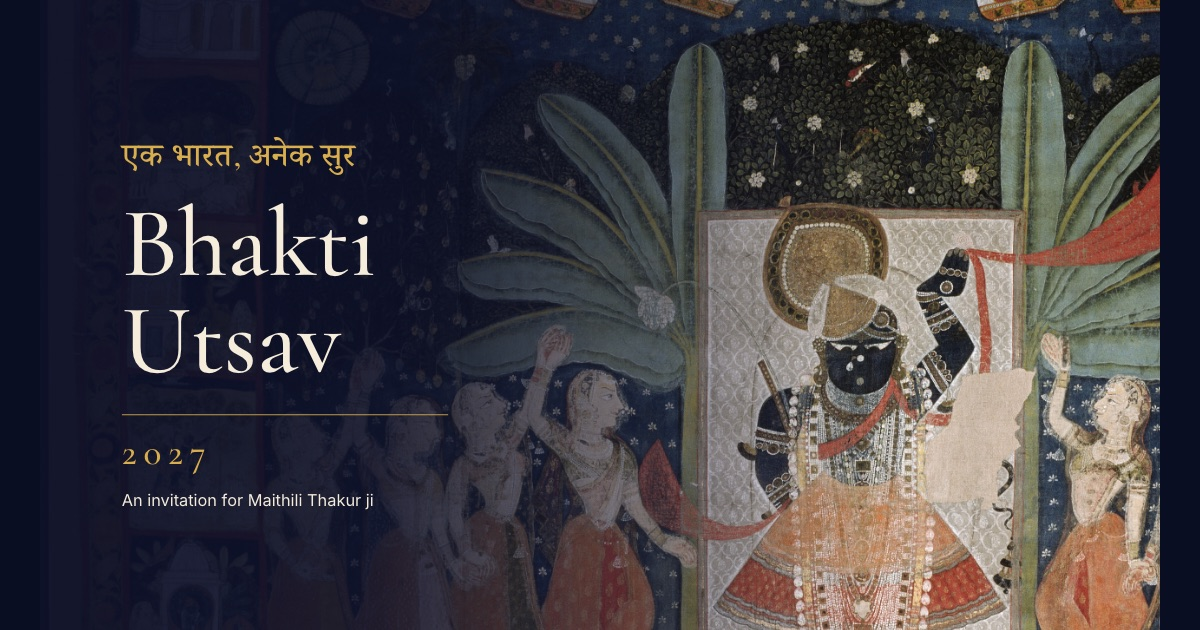
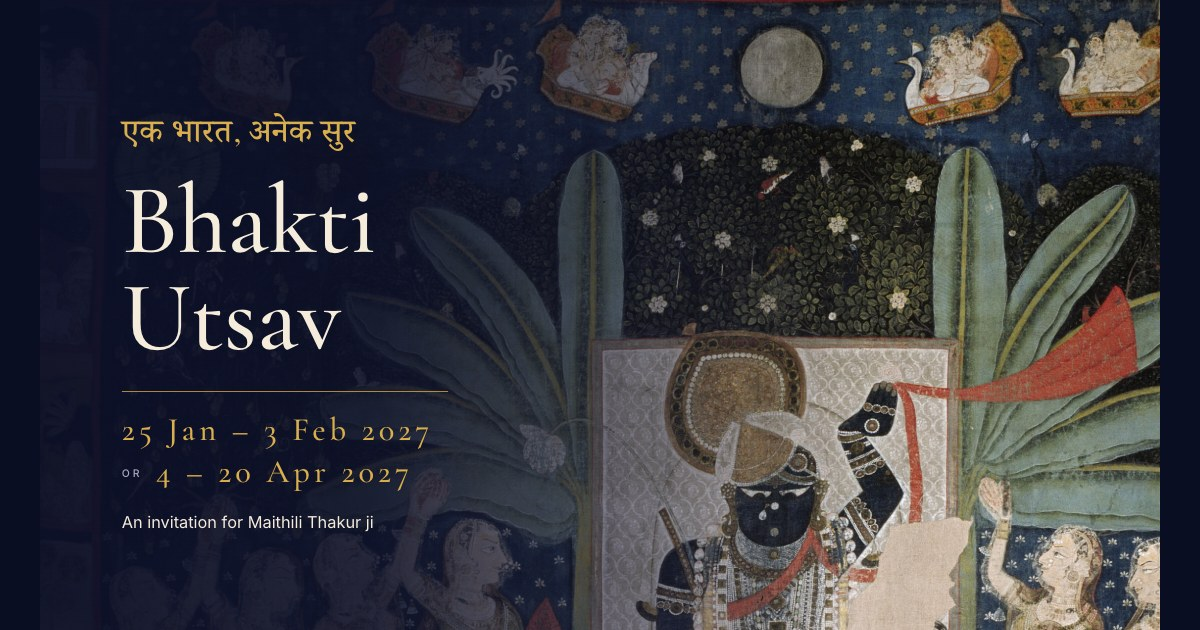
Update deck

diff --git a/index.html b/index.html
@@ -4,14 +4,14 @@
 <meta charset="utf-8">
 <meta name="viewport" content="width=device-width, initial-scale=1">
 <title>Bhakti Utsav 2027</title>
-<meta name="description" content="Ek Bharat, Anek Sur. An invitation for Maithili Thakur ji.">
+<meta name="description" content="Ek Bharat, Anek Sur. 25 Jan – 3 Feb or 4 – 20 Apr 2027. An invitation for Maithili Thakur ji.">
 <meta name="theme-color" content="#0A0E22">
 <meta name="apple-mobile-web-app-capable" content="yes">
 <meta name="mobile-web-app-capable" content="yes">
 <meta name="apple-mobile-web-app-status-bar-style" content="black">
 <meta property="og:type" content="website">
 <meta property="og:title" content="Bhakti Utsav 2027">
-<meta property="og:description" content="Ek Bharat, Anek Sur. An invitation for Maithili Thakur ji.">
+<meta property="og:description" content="Ek Bharat, Anek Sur. 25 Jan – 3 Feb or 4 – 20 Apr 2027. An invitation for Maithili Thakur ji.">
 <meta property="og:url" content="https://saurabh-labofone.github.io/bhakti-utsav-2027/">
 <meta property="og:image" content="https://saurabh-labofone.github.io/bhakti-utsav-2027/assets/share.jpg">
 <meta property="og:image:width" content="1200">
@@ -68,6 +68,7 @@ svg.ln line,svg.ln path{stroke:var(--gold);stroke-width:1.5;fill:none}
 #bars .bar i{display:block;height:100%;background:var(--gold);transform-origin:left center;transform:scaleX(0)}
 
 /* journey */
+.s1-or{display:inline-block;font:500 18px/1 'IN';letter-spacing:.3em;text-transform:uppercase;color:var(--muted);margin-right:22px;vertical-align:.5em}
 .station .dot{position:absolute;width:20px;height:20px;margin:-10px 0 0 -10px;border-radius:50%;background:var(--gold)}
 .station .ring{position:absolute;width:48px;height:48px;margin:-24px 0 0 -24px;border-radius:50%;border:1.5px solid var(--gold)}
 .station.maybe .dot{background:transparent;border:2px dashed var(--gold);box-sizing:border-box;width:26px;height:26px;margin:-13px 0 0 -13px}
@@ -162,6 +163,7 @@ html.idle #playB.ended{opacity:1;pointer-events:auto}
 #rotate .r-in{max-width:320px}
 #rotate .r-kick{font:500 12px/1.4 'IN',system-ui,sans-serif;letter-spacing:.3em;text-transform:uppercase;color:var(--gold)}
 #rotate .r-dev{font:500 20px/1.3 'DEV',serif;color:var(--gold);margin-top:8px}
+#rotate .r-date{font:500 15px/1.55 'IN',system-ui,sans-serif;letter-spacing:.06em;color:var(--ivory);margin-top:10px}
 #rotate svg{display:block;width:132px;height:132px;margin:34px auto 30px;overflow:visible}
 #rotate .r-phone{transform-box:fill-box;transform-origin:center;animation:turn 3.2s cubic-bezier(.65,0,.35,1) infinite}
 #rotate .r-phone rect{fill:rgba(30,38,82,.7);stroke:var(--gold);stroke-width:2}
@@ -184,11 +186,11 @@ html.idle #playB.ended{opacity:1;pointer-events:auto}
 <section class="slide" id="s1">
   <div class="lens full" data-img="raas"><img alt="Pichwai of Shrinathji with the gopis under a night sky, Nathdwara, 19th century"></div>
   <div class="scrim-l"></div>
-  <div class="abs" style="left:140px;top:240px;width:1100px">
+  <div class="abs" style="left:140px;top:200px;width:1100px">
     <div class="dev s1-dev" style="font-size:56px;line-height:1.3;color:var(--gold)">एक भारत, अनेक सुर</div>
     <h1 class="h s1-title" style="font-size:170px;line-height:.98;margin-top:22px">Bhakti<br>Utsav</h1>
     <svg class="ln s1-rule" width="560" height="6" style="display:block;margin-top:40px"><line x1="0" y1="3" x2="560" y2="3"/></svg>
-    <div class="s1-year" style="font:500 64px/1 'CG',serif;color:var(--gold);letter-spacing:.18em;margin-top:30px">2027</div>
+    <div class="s1-year" style="font:500 56px/1.3 'CG',serif;color:var(--gold);letter-spacing:.12em;margin-top:26px;white-space:nowrap">25 Jan – 3 Feb 2027<br><span class="s1-or">or</span>4 – 20 Apr 2027</div>
     <p class="p s1-sub" style="margin-top:28px;color:var(--ivory)">An invitation for Maithili Thakur ji</p>
   </div>
 </section>
@@ -222,7 +224,7 @@ html.idle #playB.ended{opacity:1;pointer-events:auto}
   <div class="abs blk" style="left:140px;top:120px;width:1600px">
     <div class="k"><i></i><span>The journey</span></div>
     <h2 class="h sp">Five cities. One devotion.</h2>
-    <p class="p s4-when"><span style="color:var(--ivory)">25 January – 3 February 2027</span> · dates to be confirmed</p>
+    <p class="p s4-when" style="max-width:1500px">Two windows: <span style="color:var(--ivory)">25 January – 3 February</span> or <span style="color:var(--ivory)">4 – 20 April 2027</span> · dates to be confirmed</p>
   </div>
   <svg class="ln abs s4-svg" style="left:0;top:0" width="1920" height="1080"><line x1="260" y1="620" x2="1460" y2="620"/></svg>
   <div class="dash s4-dash" style="left:1472px;top:619px;width:236px"></div>
@@ -342,6 +344,7 @@ html.idle #playB.ended{opacity:1;pointer-events:auto}
   <div class="r-in">
     <div class="r-kick">Bhakti Utsav 2027</div>
     <div class="r-dev">एक भारत, अनेक सुर</div>
+    <div class="r-date">25 January – 3 February 2027<br>or 4 – 20 April 2027</div>
     <svg viewBox="0 0 132 132" aria-hidden="true">
       <path class="r-arc" d="M108.9 30 A56 56 0 0 0 23.1 30"/>
       <path class="r-arrow" d="M23.1 30 L32 27.1 L24.4 20.7 Z"/>
@@ -516,7 +519,7 @@ const BUILD = [
     fade(tl, $(S, '.s1-dev'), t + .3, 1.6, 16);
     tl.fromTo($(S, '.s1-title')._sp.chars, { yPercent: 118 }, { yPercent: 0, duration: 1.4, ease: 'expo.out', stagger: .04 }, t + .6);
     draw(tl, $(S, '.s1-rule line'), t + 1.4, 1.8);
-    tl.fromTo($(S, '.s1-year'), { opacity: 0, letterSpacing: '0.7em' }, { opacity: 1, letterSpacing: '0.18em', duration: 2, ease: 'expo.out' }, t + 1.8);
+    tl.fromTo($(S, '.s1-year'), { opacity: 0, letterSpacing: '0.4em' }, { opacity: 1, letterSpacing: '0.12em', duration: 2, ease: 'expo.out' }, t + 1.8);
     fade(tl, $(S, '.s1-sub'), t + 2.5);
   },
   /* 2 · the thought */ (tl, S, t) => {
@@ -694,7 +697,7 @@ let toastT;
 function toast(msg, ms = 2600) { const t = document.getElementById('toast'); t.textContent = msg; t.classList.add('on'); clearTimeout(toastT); toastT = setTimeout(() => t.classList.remove('on'), ms); }
 async function share() {
   const url = location.origin + location.pathname;
-  if (navigator.share) { try { await navigator.share({ title: 'Bhakti Utsav 2027', text: 'Ek Bharat, Anek Sur.', url }); } catch (err) {} return; }
+  if (navigator.share) { try { await navigator.share({ title: 'Bhakti Utsav 2027', text: 'Ek Bharat, Anek Sur. 25 Jan – 3 Feb or 4 – 20 Apr 2027.', url }); } catch (err) {} return; }
   try { await navigator.clipboard.writeText(url); toast('Link copied'); } catch (err) { window.prompt('Copy this link:', url); }
 }
 
